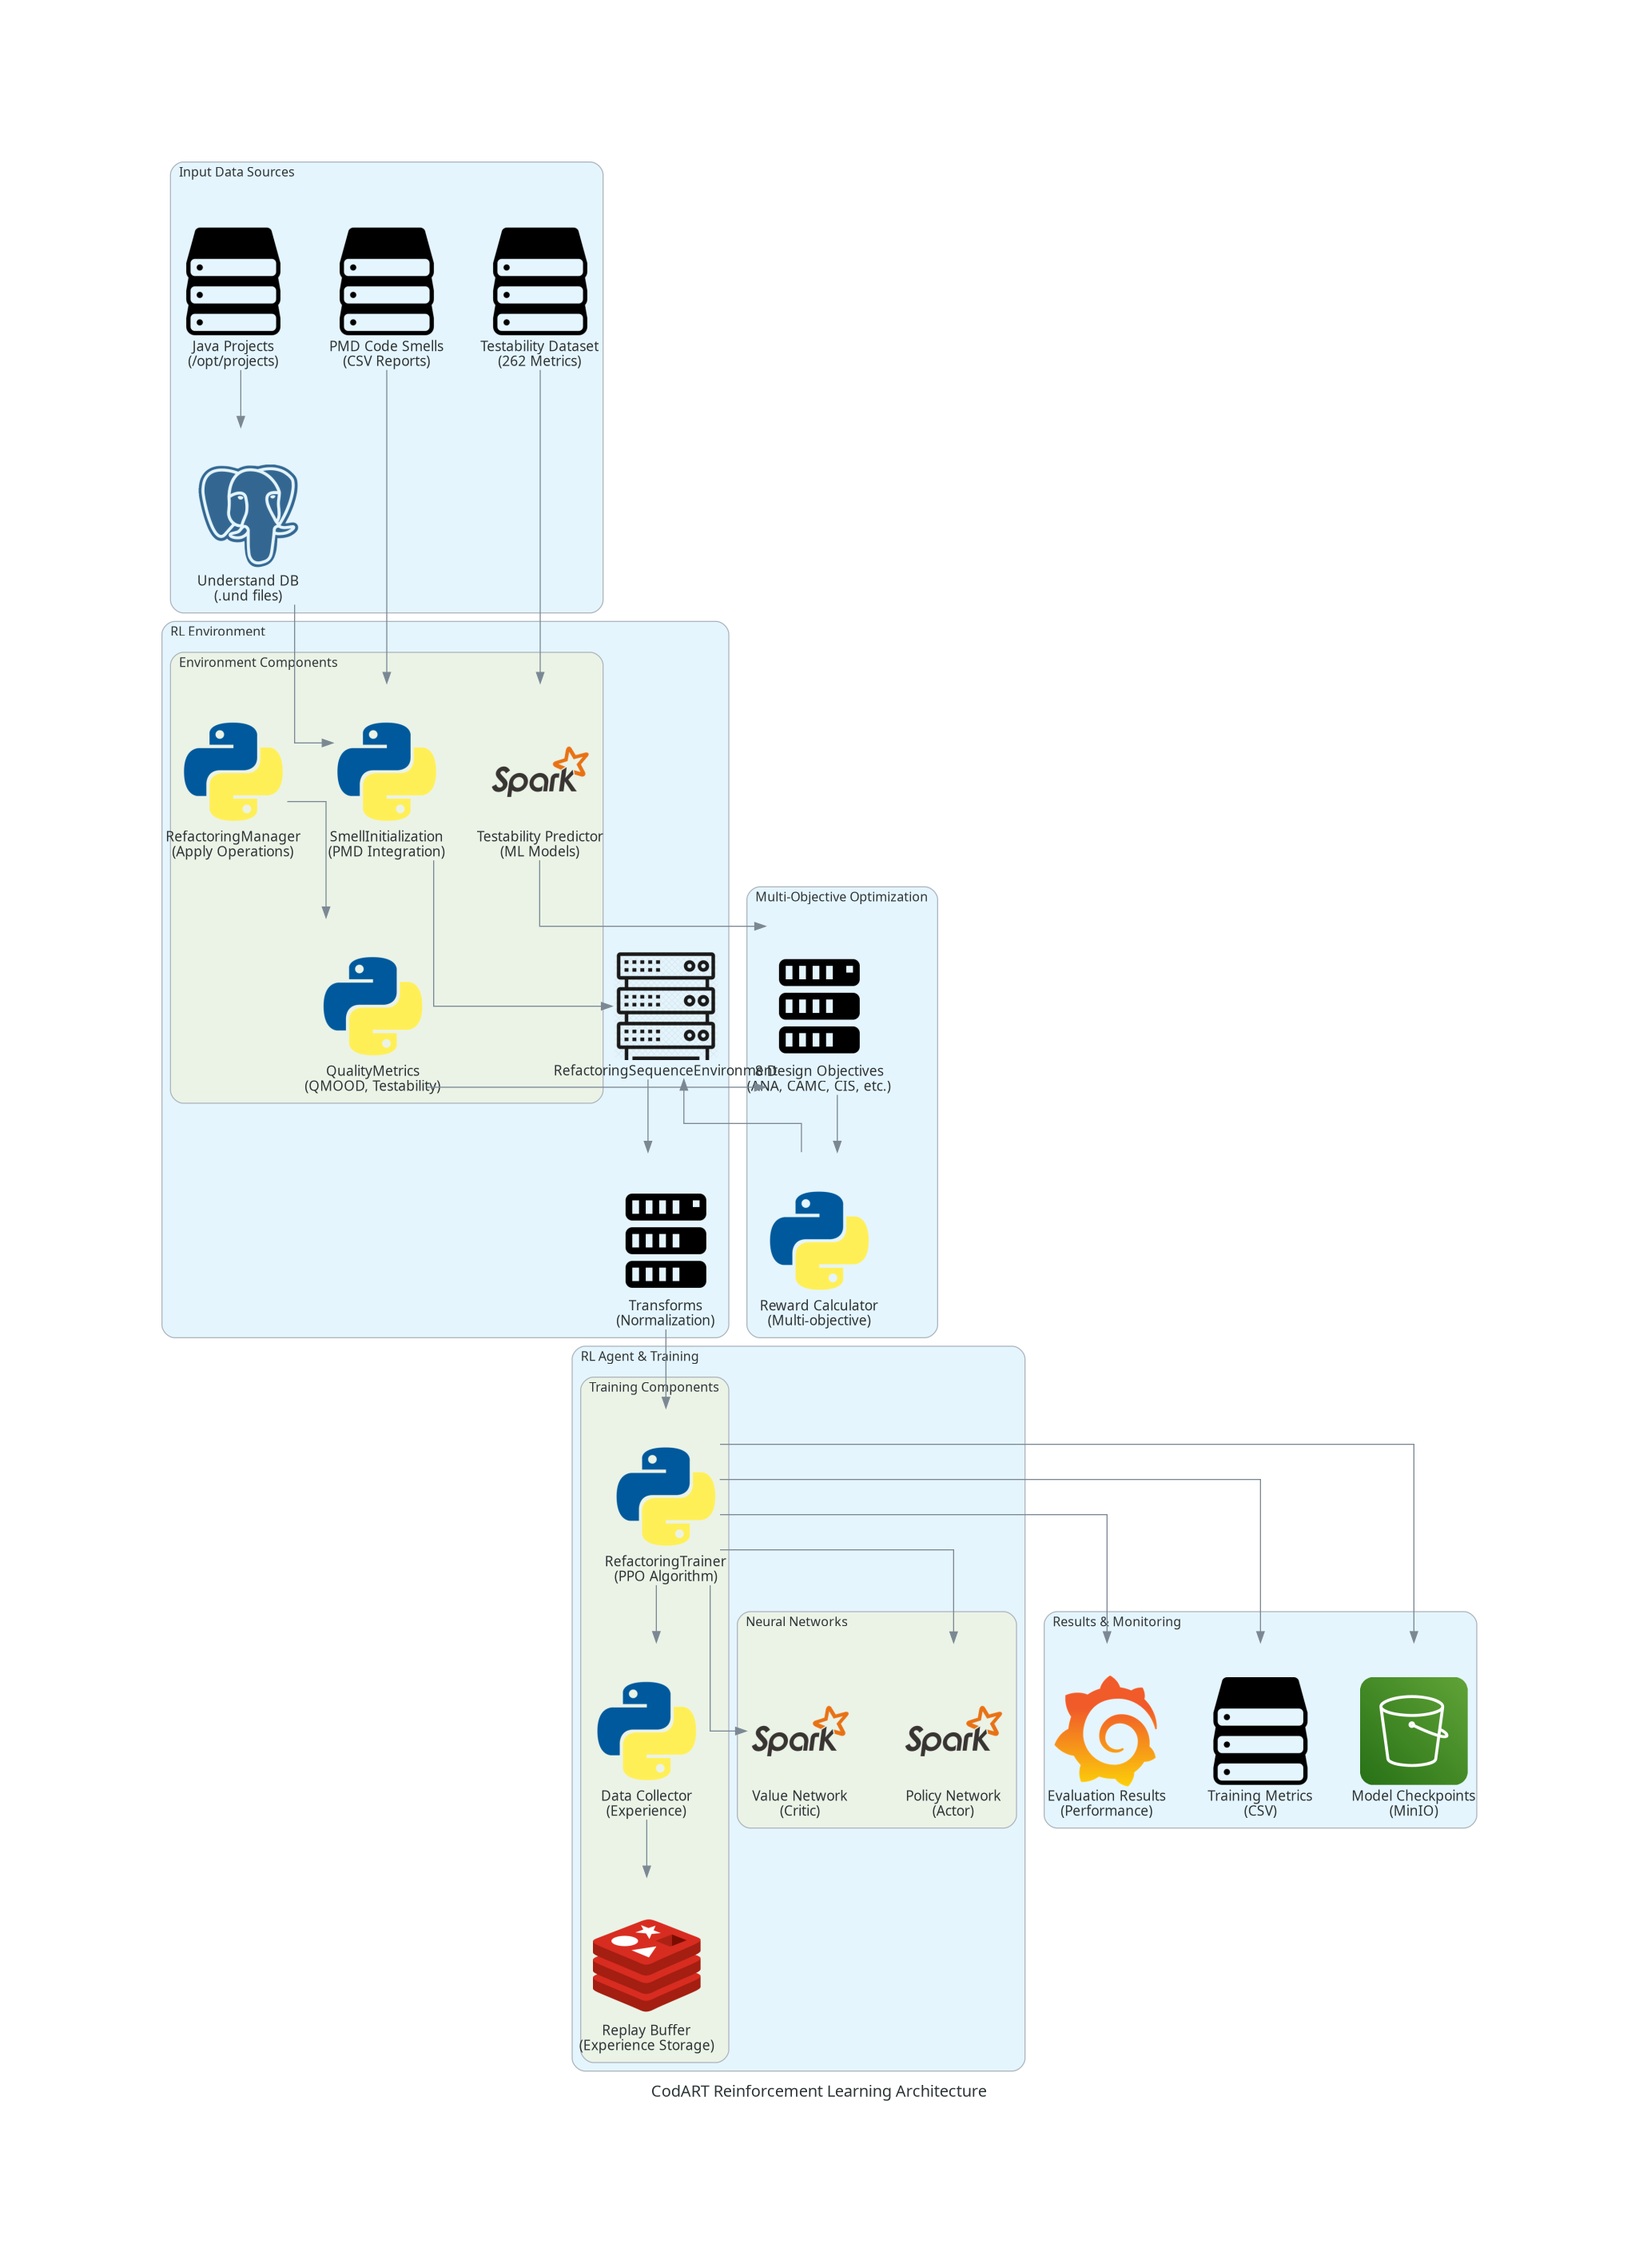
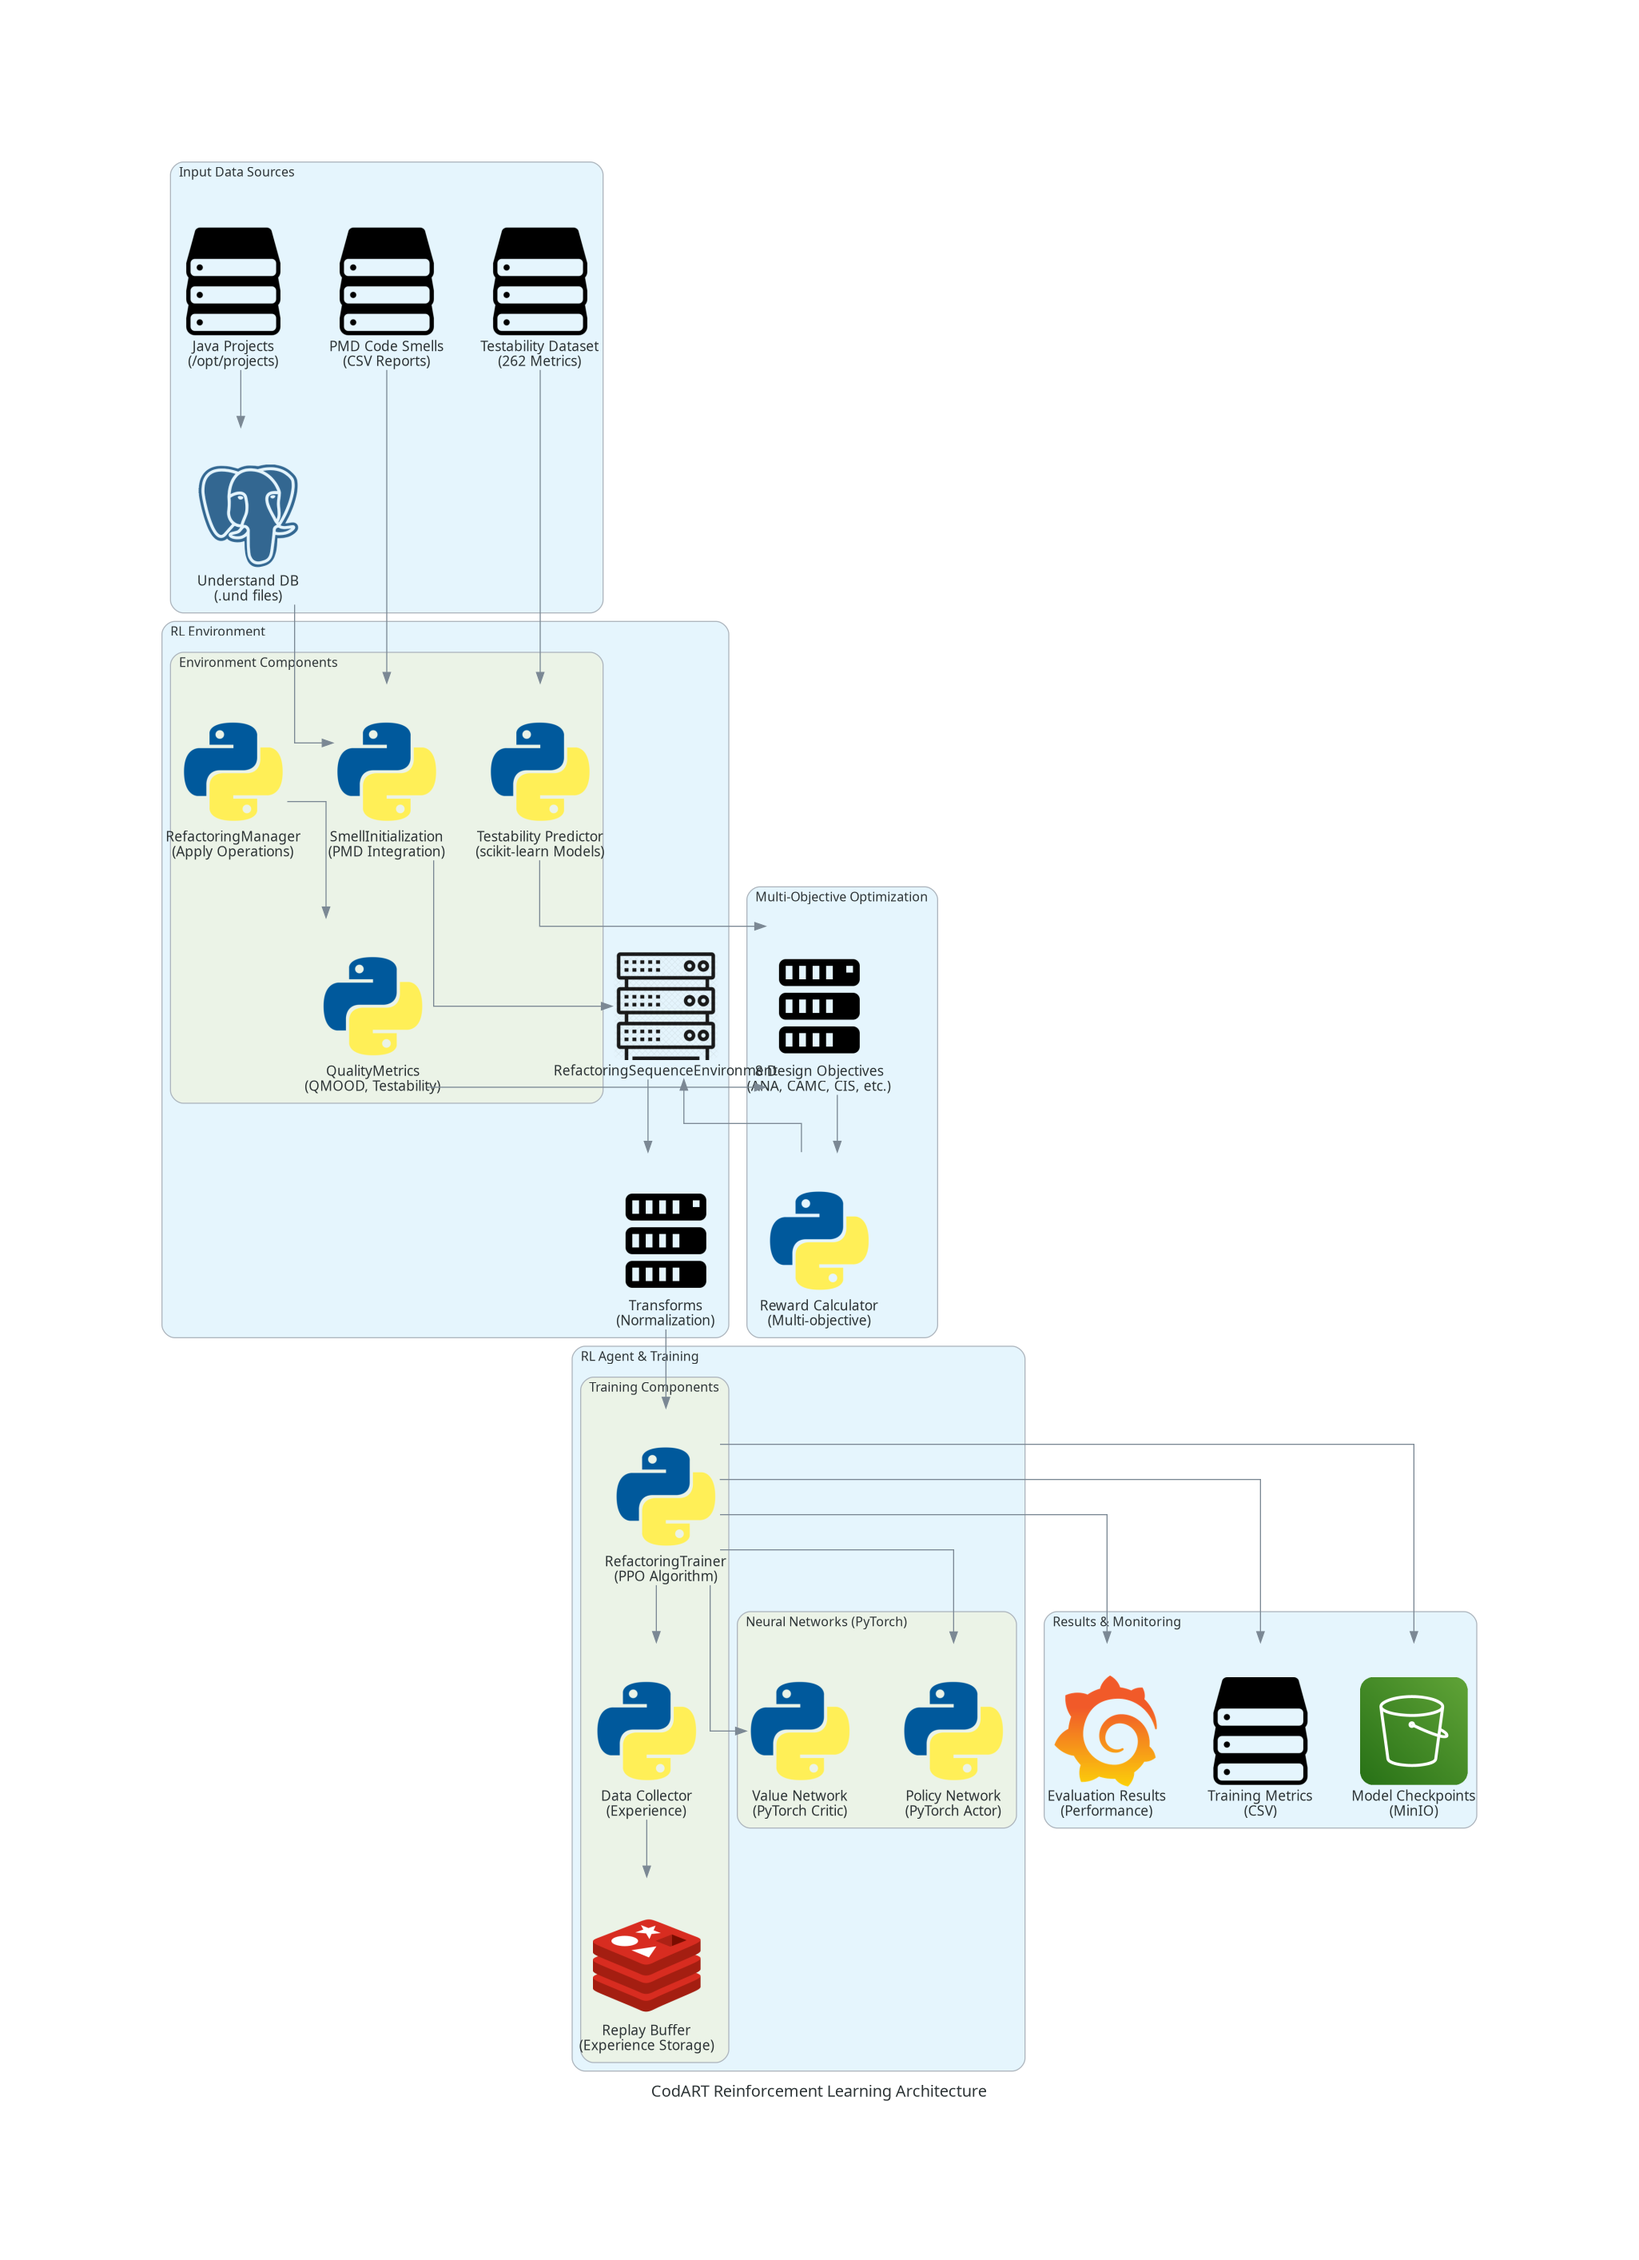
add README.md

Changed region(s): [[0.4369, 0.7471, 0.6241, 0.8093], [0.2808, 0.3113, 0.3745, 0.3735]]

diff --git a/system_architecture.py b/system_architecture.py
@@ -14,7 +14,7 @@ from diagrams.onprem.client import Users
 from diagrams.onprem.compute import Server
 from diagrams.programming.framework import React, Fastapi
 from diagrams.programming.language import Python, Java
-from diagrams.onprem.analytics import Spark
+from diagrams.onprem.analytics import Databricks
 from diagrams.onprem.monitoring import Grafana
 from diagrams.generic.storage import Storage
 from diagrams.generic.compute import Rack
@@ -44,9 +44,9 @@ with Diagram("CodART System Architecture", show=False, filename="codart_system_a
         
     # Machine Learning Layer
     with Cluster("ML & Testability Models"):
-        testability_models = Python("Testability Prediction\n(RandomForest, GradientBoosting)")
-        ml_pipeline = Python("ML Training Pipeline\n(PyTorch, TensorDict)")
-        rl_environment = Python("RL Environment\n(PPO Algorithm)")
+        testability_models = Python("Testability Prediction\n(scikit-learn: RandomForest, GradientBoosting)")
+        ml_pipeline = Python("ML Training Pipeline\n(PyTorch, TorchRL)")
+        rl_environment = Python("RL Environment\n(TorchRL PPO Algorithm)")
             
     # External Services
     with Cluster("External Dependencies"):
@@ -125,13 +125,13 @@ with Diagram("CodART Reinforcement Learning Architecture", show=False, filename=
             smell_init = Python("SmellInitialization\n(PMD Integration)")
             refactor_mgr = Python("RefactoringManager\n(Apply Operations)")
             metrics = Python("QualityMetrics\n(QMOOD, Testability)")
-            testability_pred = Spark("Testability Predictor\n(ML Models)")
+            testability_pred = Python("Testability Predictor\n(scikit-learn Models)")
     
     # Agent & Training Layer
     with Cluster("RL Agent & Training"):
-        with Cluster("Neural Networks"):
-            policy_net = Spark("Policy Network\n(Actor)")
-            value_net = Spark("Value Network\n(Critic)")
+        with Cluster("Neural Networks (PyTorch)"):
+            policy_net = Python("Policy Network\n(PyTorch Actor)")
+            value_net = Python("Value Network\n(PyTorch Critic)")
         
         with Cluster("Training Components"):
             trainer = Python("RefactoringTrainer\n(PPO Algorithm)")
